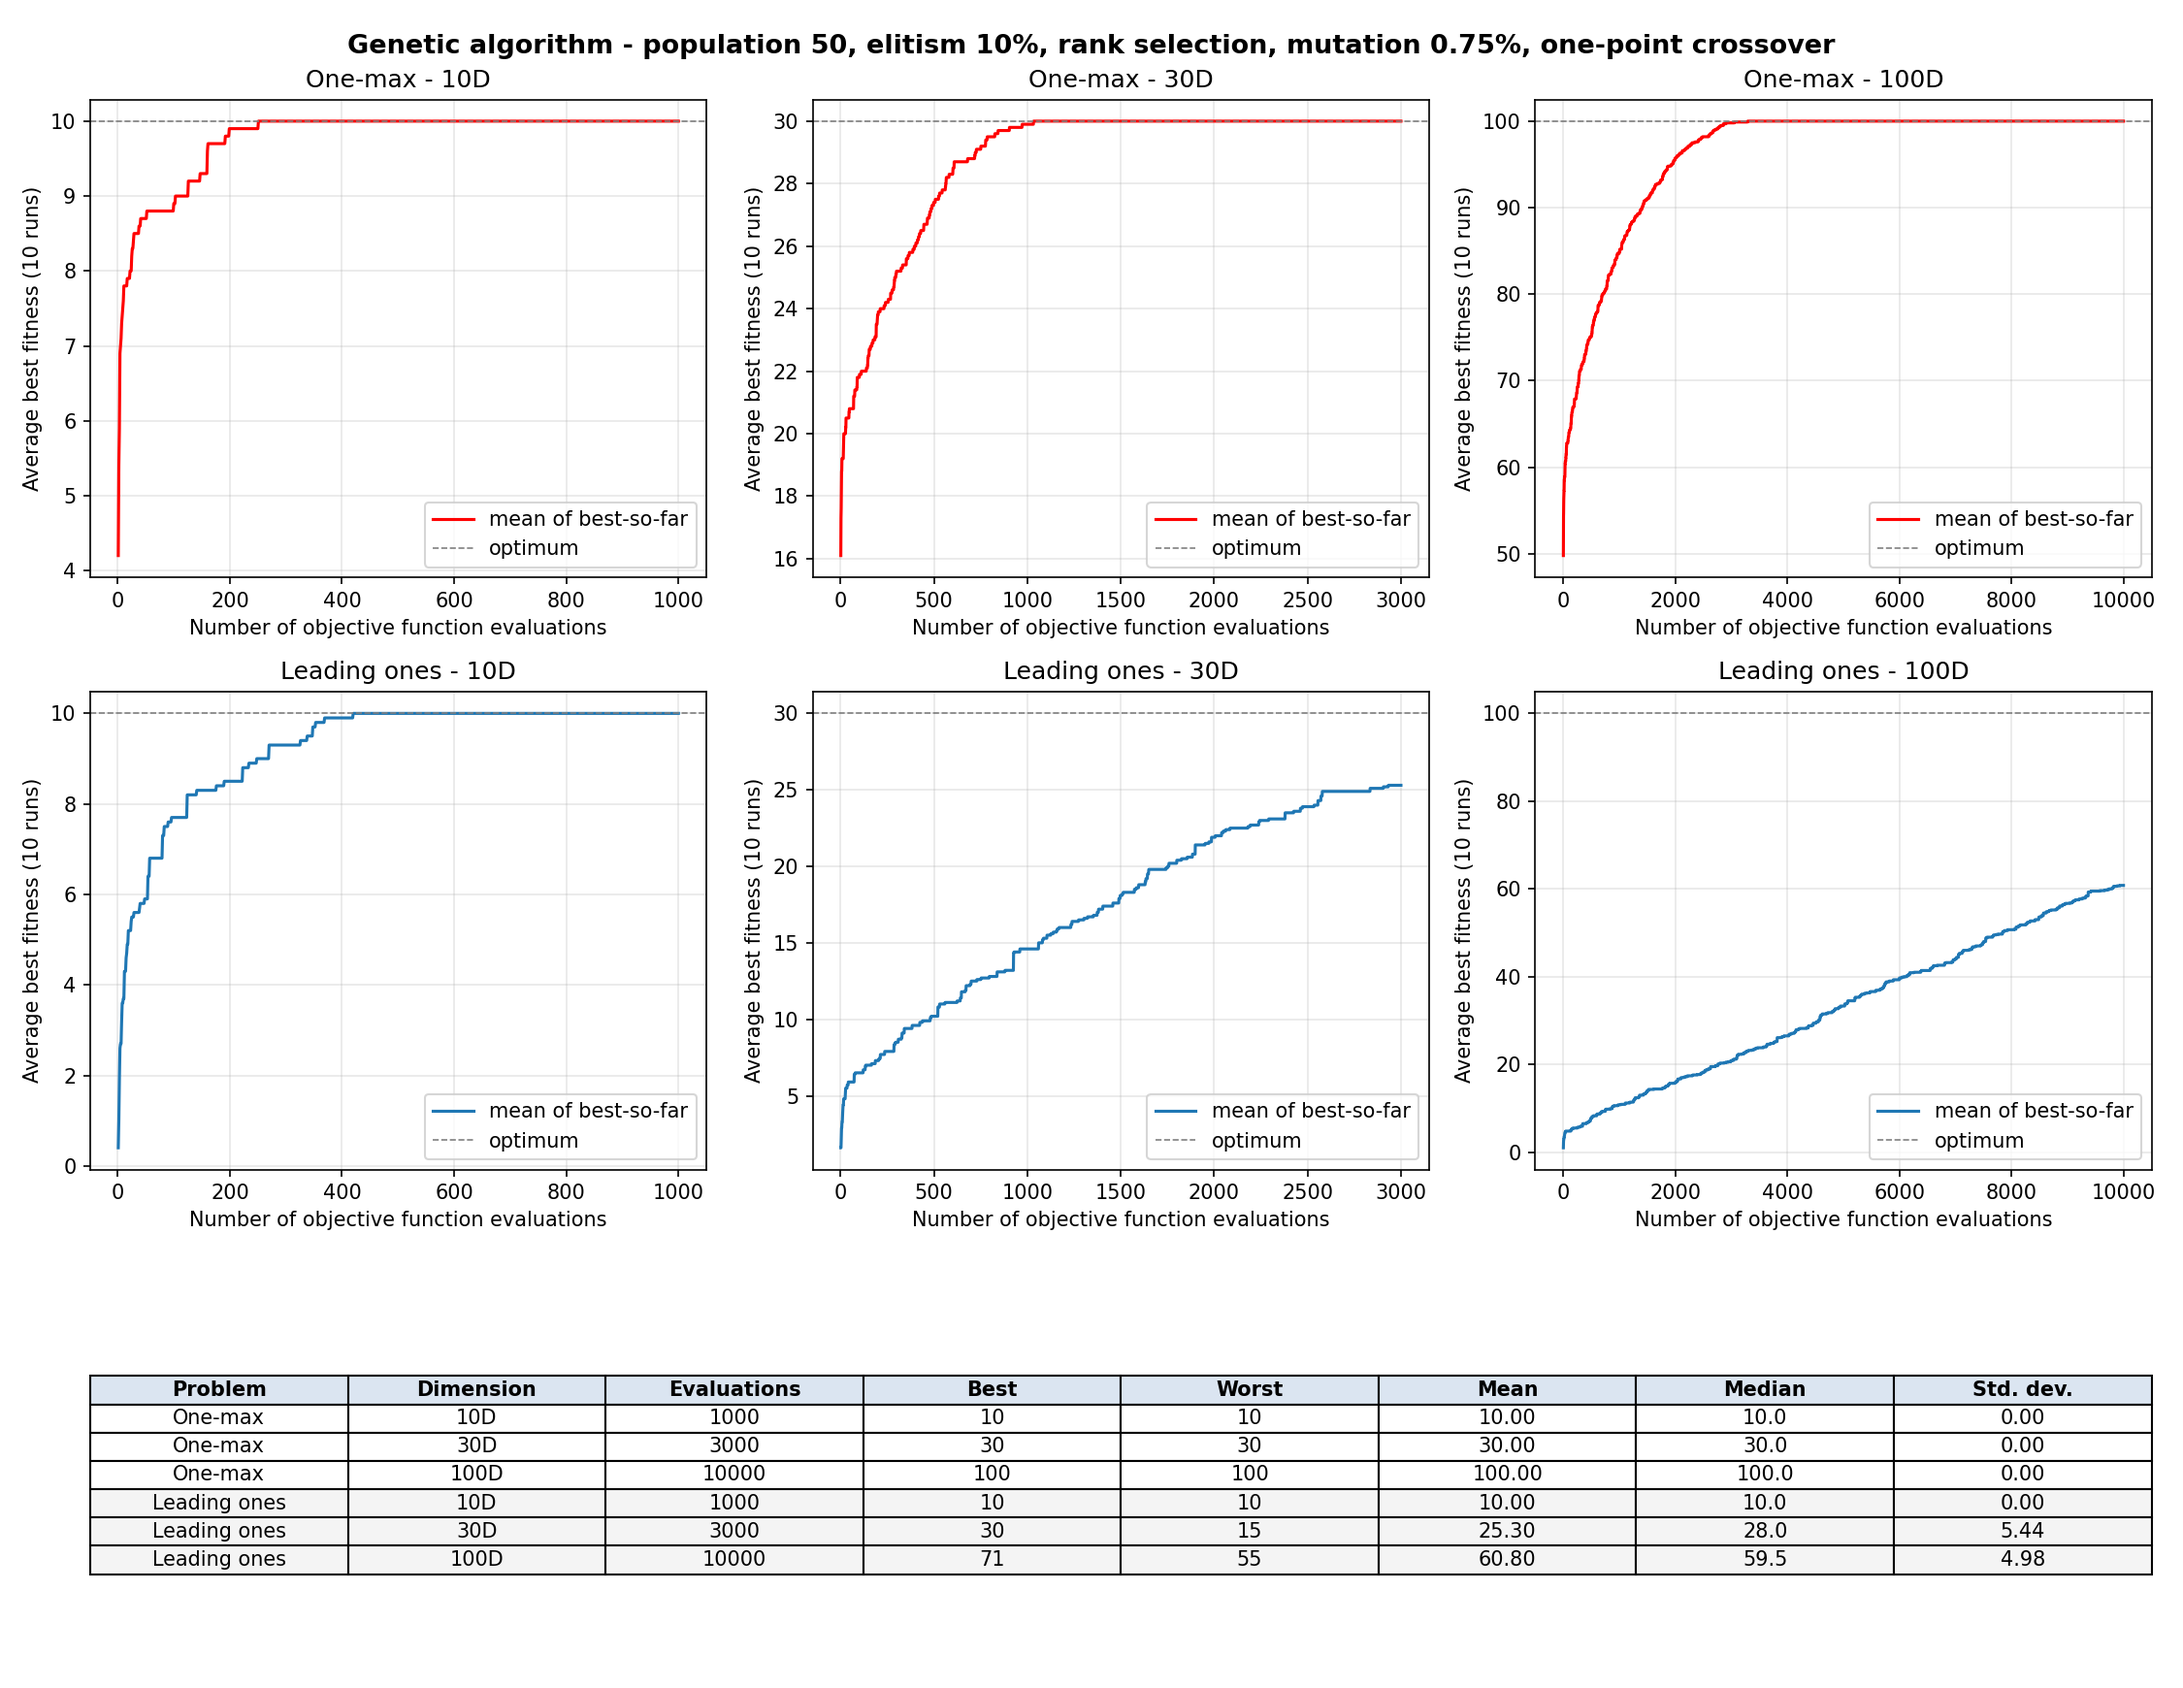
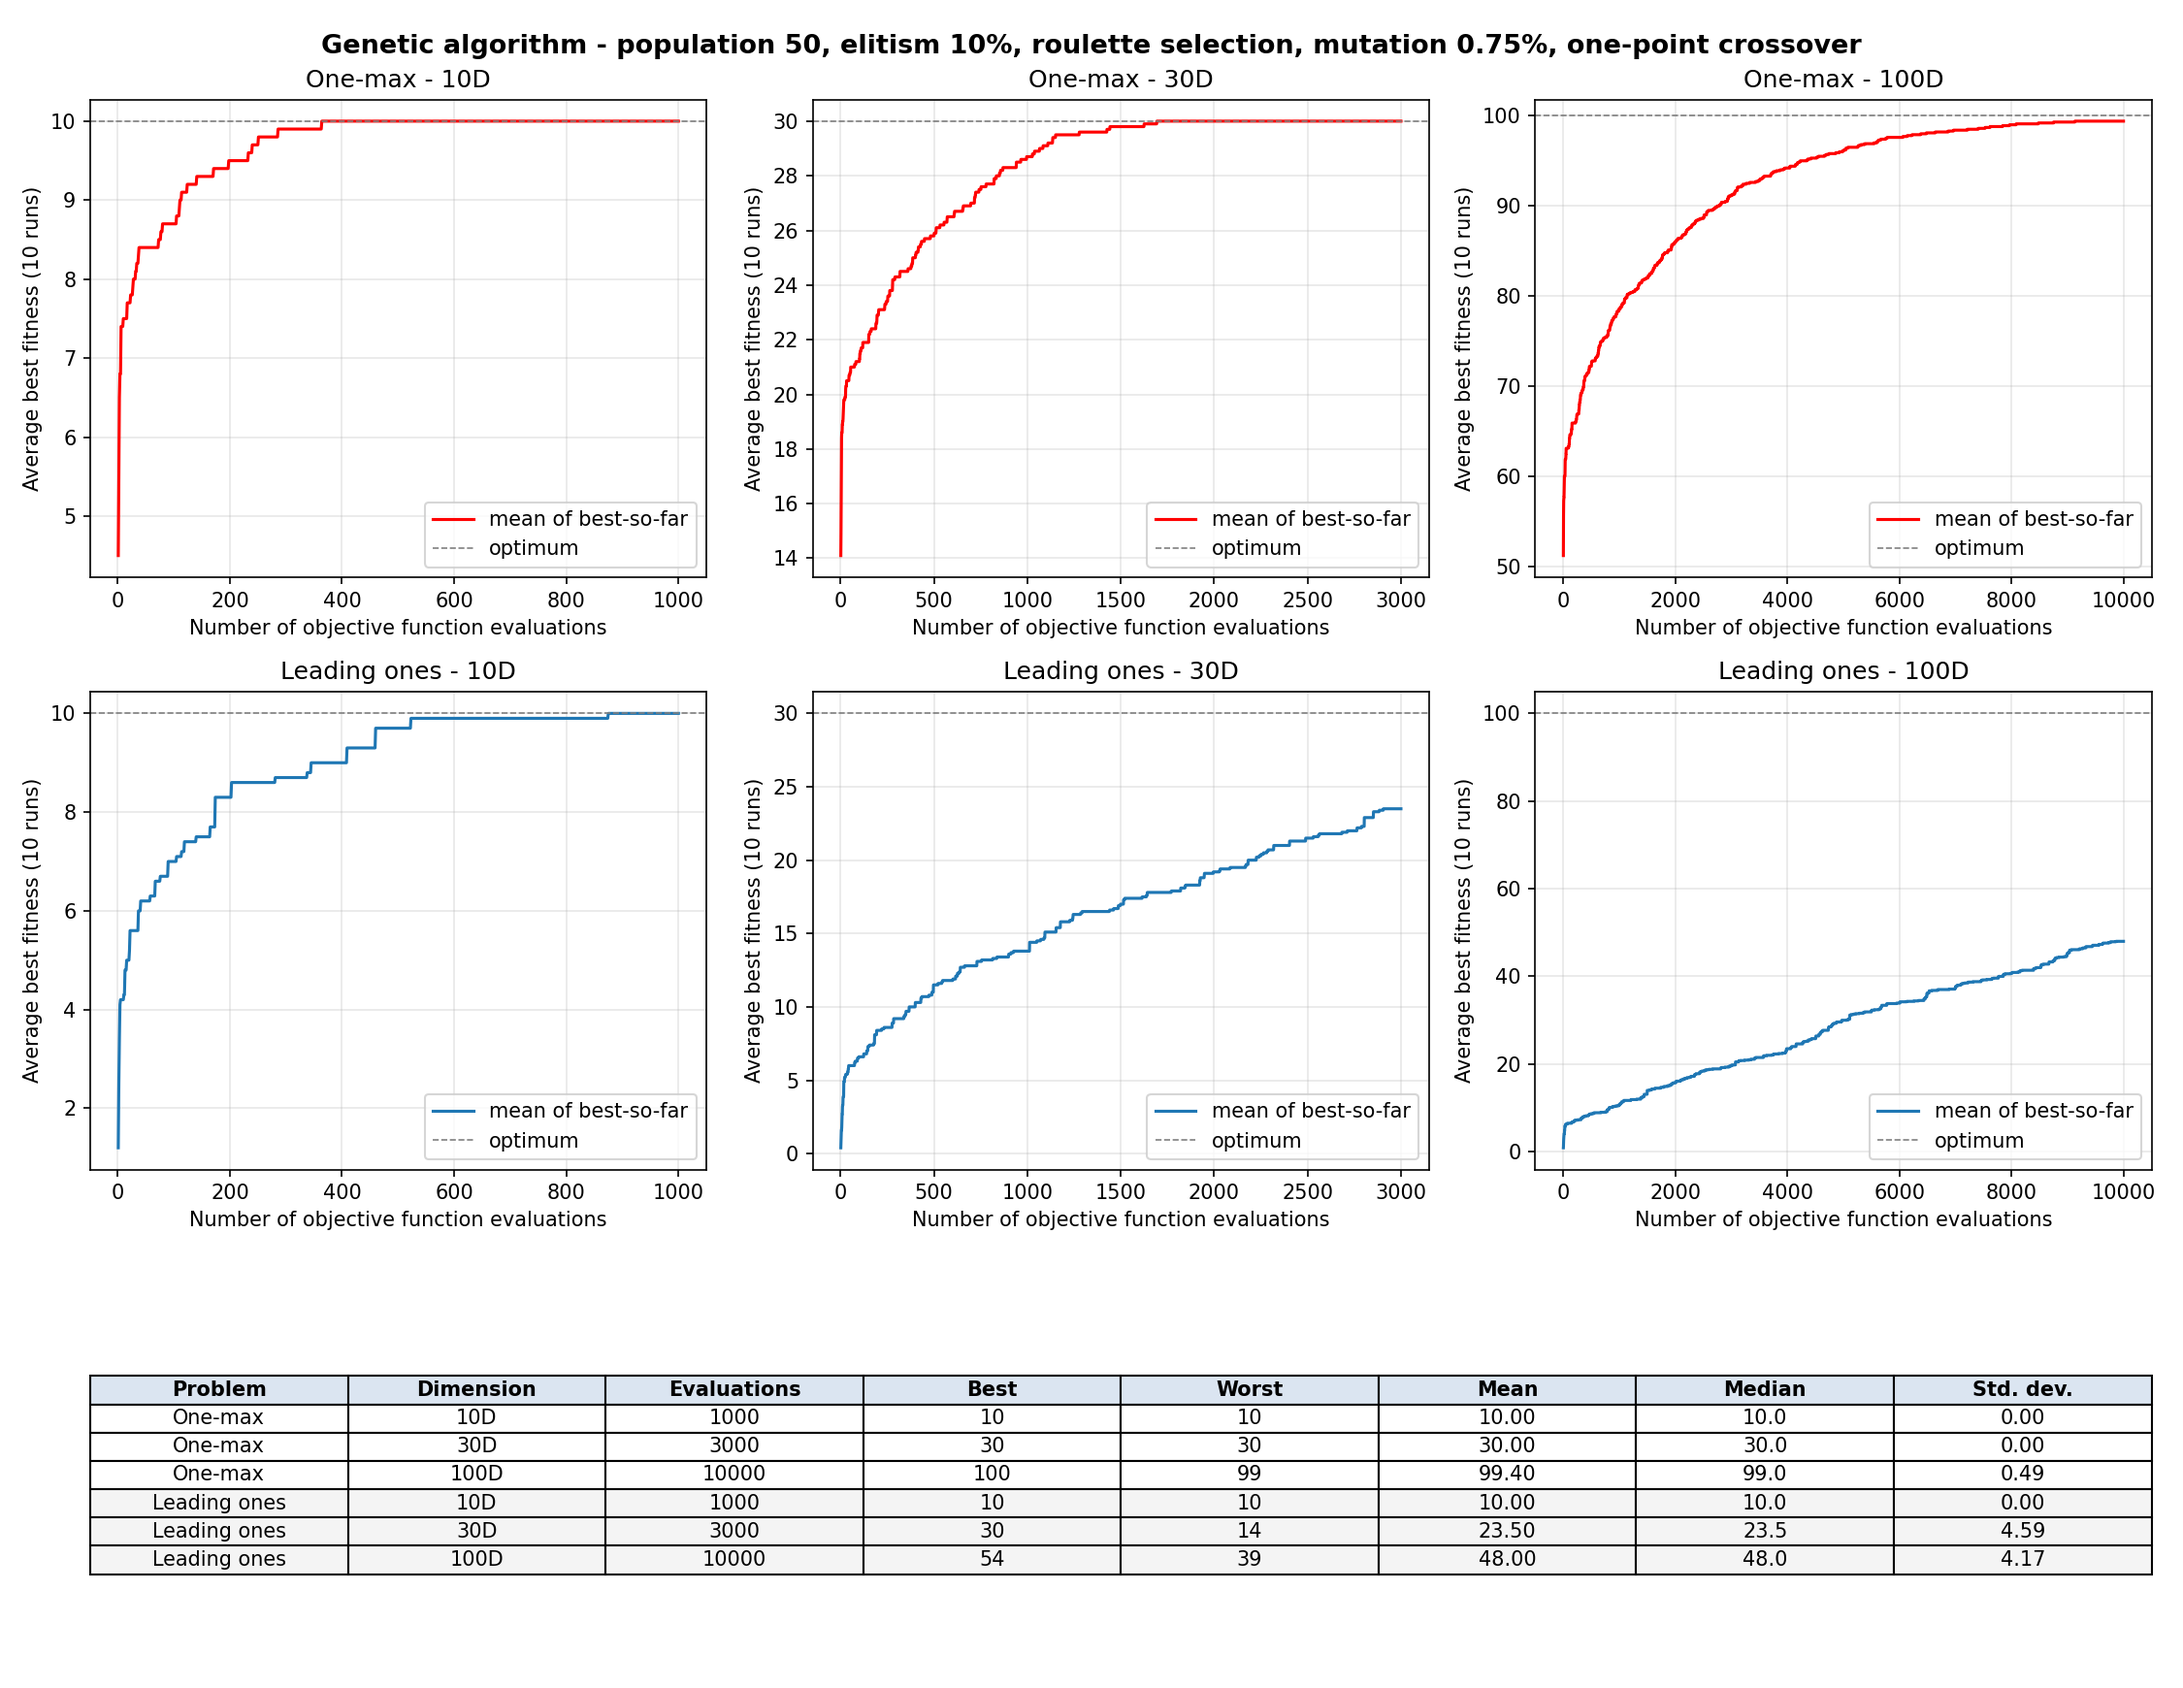
fix: comments, roulette selection, generated graph

diff --git a/main.py b/main.py
@@ -7,7 +7,7 @@ RUNS_NO = 10
 MUTATION_PROBABILITY = 0.0075
 POPULATION_SIZE = 50
 ELITISM_RATIO = 0.1
-SELECTION = "rank"
+SELECTION = "roulette" # "rank", "roulette"
 EVALS_PER_DIM = 100
 DIMENSIONS = (10, 30, 100)
 
@@ -167,7 +167,7 @@ def plot_results(curves: dict[str, dict[int, list[float]]],
             ax.plot(range(1, len(curve) + 1), curve, color="red" if name == "One-max" else "tab:blue", label="mean of best-so-far")
             ax.axhline(dimension, color="gray", linestyle="--", linewidth=0.8, label="optimum")
             ax.set_title(f"{name} - {dimension}D")
-            ax.set_xlabel("Number of objective function evaluations")
+            ax.set_xlabel("Evalutaions")
             ax.set_ylabel(f"Average best fitness ({RUNS_NO} runs)")
             ax.grid(True, alpha=0.3)
             ax.legend(loc="lower right")
@@ -190,10 +190,10 @@ def plot_results(curves: dict[str, dict[int, list[float]]],
     table.auto_set_font_size(False)
     table.set_fontsize(10)
     for (row, col), cell in table.get_celld().items():
-        if row == 0:                                   # header
+        if row == 0: # header
             cell.set_facecolor("#dbe5f1")
             cell.set_text_props(fontweight="bold")
-        elif (row - 1) // n_cols % 2 == 1:             # shade the second problem
+        elif (row - 1) // n_cols % 2 == 1: # shade the second problem
             cell.set_facecolor("#f4f4f4")
  
     fig.suptitle(f"Genetic algorithm - population {params['pop_size']}, "
@@ -213,7 +213,7 @@ def main():
     for name, objective in OBJECTIVES.items():
         print(f"=== {name} ===")
         curves[name], all_results[name] = {}, {}
-        for dimension in DIMENSIONS:      # 10D, 30D, 100D
+        for dimension in DIMENSIONS: # 10D, 30D, 100D
             results, curves[name][dimension] = run_experiment(objective, dimension, RUNS_NO, **params)
             all_results[name][dimension] = results
             print_stats(results, f"{dimension}D ({EVALS_PER_DIM * dimension} evals)")
